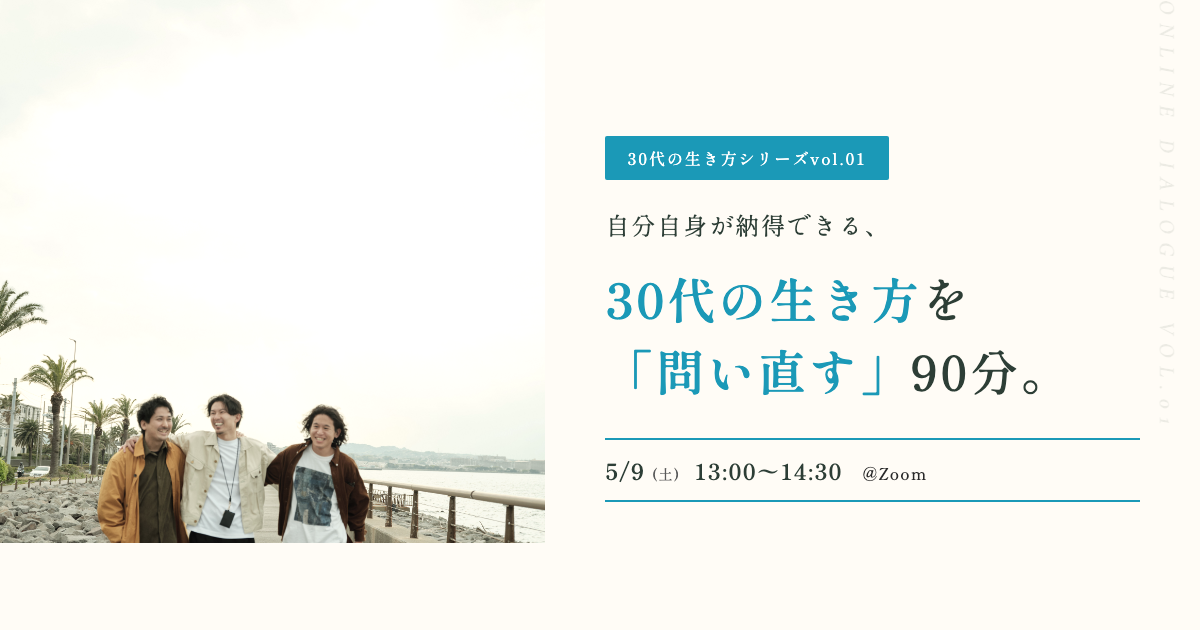
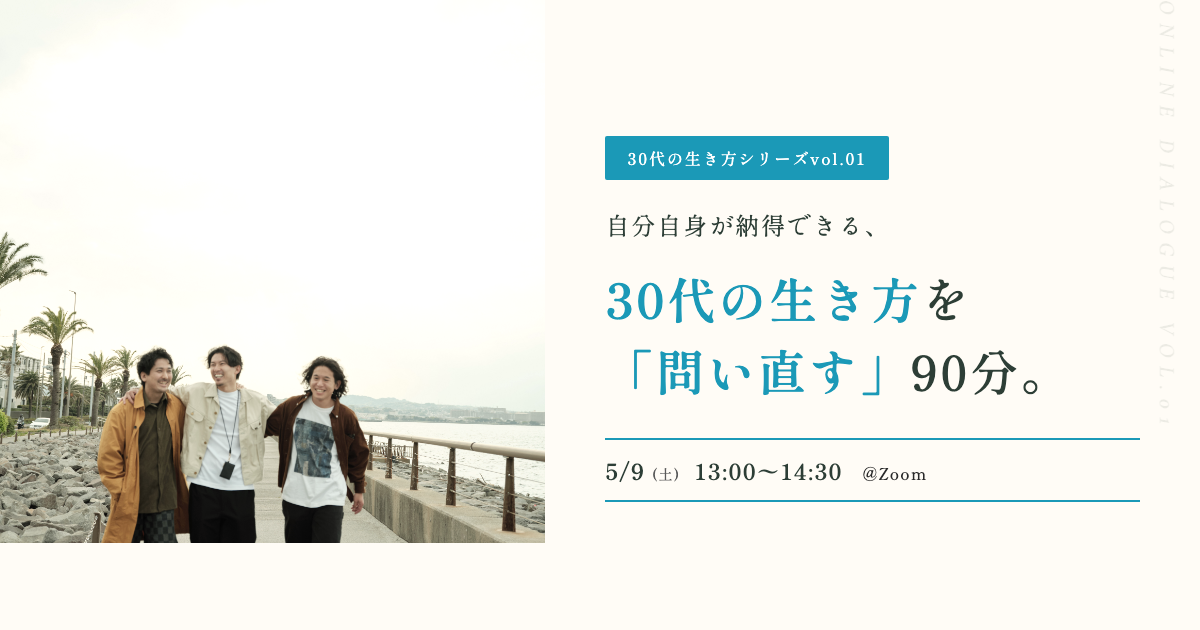
event-30s-v01: OGP画像のクロップ位置を本サイトと揃える
background-position: center → center bottom。人物の足元（コンクリート歩道・海・柵）まで入り、本サイトのヒーロー画像と同じ収まりに。

Changed region(s): [[0.0, 0.3619, 0.4625, 0.8746]]

diff --git a/event-30s-v01-260509/og-source.html b/event-30s-v01-260509/og-source.html
@@ -20,7 +20,7 @@
   .photo {
     background-image: url('images/01_542.jpg');
     background-size: cover;
-    background-position: center;
+    background-position: center bottom;
     filter: saturate(0.92) sepia(0.06) brightness(1.02);
   }
   .content {
